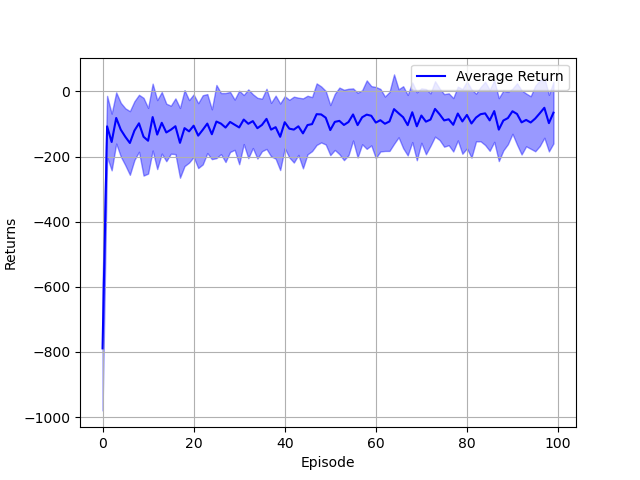
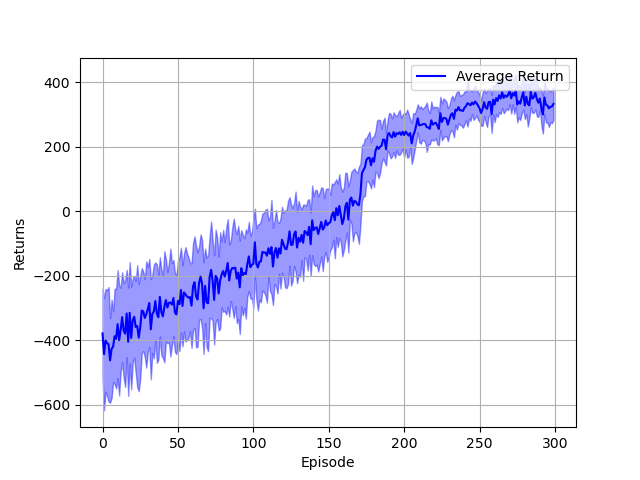
CPO works! and made plotter a bit better

diff --git a/jaisalab/metrics/plotting.py b/jaisalab/metrics/plotting.py
@@ -1,18 +1,32 @@
+#misc
 import os 
+import glob
 import numpy as np 
 import matplotlib.pyplot as plt 
 import pandas as pd
 import csv
 
+#jaisalab
 from jaisalab.utils import get_time_stamp_as_string
 
 class Plotter():
-    def __init__(self, fdir, data_dir=None, dtype='np', savefig=True, **kwargs):
+    def __init__(self, plot_latest=True, fdir=None, data_dir=None, dtype='np', savefig=True, **kwargs):
         if data_dir is None:
             data_dir = 'data/local/experiment'
 
         self.data_dir = data_dir
-        self.fdir = fdir
+
+        if plot_latest: 
+            list_of_data_dirs = [x[0] for x in os.walk(data_dir)]
+            latest_data_dir = max(list_of_data_dirs, key=os.path.getctime)
+            self.fdir = latest_data_dir
+            self.dir_name = latest_data_dir.split('/')[-1]
+        else: 
+            if fdir is not None: 
+                self.fdir = fdir
+            else: 
+                raise TypeError("'NoneType' object is not an accesible data directory.")
+
         self.savefig = savefig
         self.fig_kwargs = kwargs
 
@@ -21,10 +35,12 @@ class Plotter():
         elif dtype == 'pd':
             self.data = self.collect_data_as_pd()
         
-        self.savedir = 'plots'
+        self.flags = {1:'returns', 2:'kl', 
+                      3:'constraint_vals', 4:'entropy',
+                      5:'losses'}
 
     def _collect_data(self):
-        file = open(self.data_dir + f'/{self.fdir}/progress.csv')
+        file = open(f'{self.fdir}/progress.csv')
         csvreader = csv.reader(file) #csv reader
         #get metric names
         metrics = [] 
@@ -55,10 +71,20 @@ class Plotter():
         df = pd.DataFrame.from_dict(data_dict)
         return df
 
+    def _savefig(self,flag):
+        if self.savefig:
+            try:
+                if 'plots' not in os.listdir():
+                    os.mkdir('plots/')
+                plt.savefig(f'plots/{self.dir_name}_{self.flags[flag]}')
+            except FileExistsError:
+                pass
+
     def plot_kl(self):
         pass
     def plot_losses(self):
         pass
+
     def plot_returns(self):
         avg_returns = self.data['Evaluation/AverageReturn']
         episodes = np.arange(0, len(avg_returns))
@@ -71,17 +97,13 @@ class Plotter():
         plt.xlabel('Episode')
         plt.ylabel('Returns')
         plt.legend(loc='best')
-        if self.savefig:
-            try: 
-                plt.savefig(f'plots/{self.fdir}_returns')
-            except FileNotFoundError:
-                os.mkdir('plots/')
-                plt.savefig(f'plots/{self.fdir}_returns')
+        self._savefig(flag=1)
 
     def plot_entropy(self):
         pass
-    def plot_constraints(self):
-        constraint_val = self.data['GaussianMLPPolicy/ConstraintValAfter']
+
+    def plot_constraint_vals(self):
+        constraint_val = self.data['CPO/ConstraintValAfter']
         episodes = np.arange(0, len(constraint_val))
 
         fig = plt.figure()
@@ -90,10 +112,6 @@ class Plotter():
         plt.xlabel('Episode')
         plt.ylabel('Constraint Value')
         plt.legend(loc='best')
-        if self.savefig:
-            try: 
-                plt.savefig(f'plots/{self.fdir}_constraints')
-            except FileNotFoundError:
-                os.mkdir('plots/')
-                plt.savefig(f'plots/{self.fdir}_constraints')
+        self._savefig(flag=3)
+    
     

diff --git a/jaisalab/algos/cpo.py b/jaisalab/algos/cpo.py
@@ -236,6 +236,11 @@ class CPO(VPG):
         costs = np_to_torch(pad_batch_array(costs_flat, valids, self.env_spec.max_episode_length))
         cost_advs_flat = self._compute_advantage(costs, valids, baselines)
 
+        #constraints
+        R = eps.env_infos["replenishment_quantity"]
+        Im1 = eps.env_infos["inventory_constraint"]
+        c =  eps.env_infos["capacity_constraint"]
+
         costs_flat = np_to_torch(costs_flat) #convert to PyTorch tensor
 
         if self._maximum_entropy:
@@ -256,8 +261,6 @@ class CPO(VPG):
                 obs_flat, returns_flat)
             kl_before = self._compute_kl_constraint(obs)
             constraint_val_before = self._compute_constraint_value(costs_flat, masks)
-            print("CONSTRAINT VAL BEFORE")
-            print(constraint_val_before)
 
         self._train(obs_flat, actions_flat, rewards_flat, returns_flat,
                     advs_flat, costs_flat, cost_advs_flat, masks)
@@ -270,8 +273,6 @@ class CPO(VPG):
             kl_after = self._compute_kl_constraint(obs)
             policy_entropy = self._compute_policy_entropy(obs)
             constraint_val_after = self._compute_constraint_value(costs_flat, masks)
-            print("CONSTRAINT VAL AFTER")
-            print(constraint_val_after)
 
         with tabular.prefix(self.policy.name):
             tabular.record('/LossBefore', policy_loss_before.item())
@@ -281,8 +282,13 @@ class CPO(VPG):
             tabular.record('/KLBefore', kl_before.item())
             tabular.record('/KL', kl_after.item())
             tabular.record('/Entropy', policy_entropy.mean().item())
+
+        with tabular.prefix("CPO"):
             tabular.record('/ConstraintValBefore', constraint_val_before.item())
             tabular.record('/ConstraintValAfter', constraint_val_after.item())
+            #tabular.record('/ReplenishmentQuantity', R)
+            #tabular.record('/InventoryConstraint', Im1)
+            #tabular.record('/CapacityConstraint', c)
 
         with tabular.prefix(self._value_function.name):
             tabular.record('/LossBefore', vf_loss_before.item())

diff --git a/jaisalab/experiments/cpo_backlog.py b/jaisalab/experiments/cpo_backlog.py
@@ -6,6 +6,7 @@ import os
 
 #misc
 import torch
+from dowel import logger, StdOutput
 
 #jaisalab
 from jaisalab.utils.env import env_setup
@@ -17,9 +18,7 @@ from jaisalab.safety_constraints import InventoryConstraints
 import garage
 from garage.torch.policies import GaussianMLPPolicy
 from garage.torch.value_functions import GaussianMLPValueFunction
-from garage import Trainer
-from dowel import logger, StdOutput
-from garage import wrap_experiment
+from garage import Trainer, wrap_experiment
 from garage.experiment.deterministic import set_seed
 from garage.sampler import LocalSampler, WorkerFactory
 from garage.torch.policies import GaussianMLPPolicy
@@ -54,12 +53,12 @@ def cpo_inv_mng_backlog(ctxt=None, seed=1):
     trainer = Trainer(ctxt)
 
     policy = GaussianMLPPolicy(env.spec,
-                               hidden_sizes=[32, 32],
+                               hidden_sizes=[64, 64],
                                hidden_nonlinearity=torch.tanh,
                                output_nonlinearity=None)
 
     value_function = GaussianMLPValueFunction(env_spec=env.spec,
-                                              hidden_sizes=(32, 32),
+                                              hidden_sizes=(64, 64),
                                               hidden_nonlinearity=torch.tanh,
                                               output_nonlinearity=None)
 
@@ -81,4 +80,4 @@ def cpo_inv_mng_backlog(ctxt=None, seed=1):
                 center_adv=False)
 
     trainer.setup(algo, env)
-    trainer.train(n_epochs=100, batch_size=1024)
+    trainer.train(n_epochs=300, batch_size=1024)

diff --git a/jaisalab/optimizers/conjugate_constraint_optimizer.py b/jaisalab/optimizers/conjugate_constraint_optimizer.py
@@ -225,12 +225,13 @@ class ConjugateConstraintOptimizer(Optimizer):
             for step, prev_param, param in zip(descent_step, prev_params,
                                                params):
                 step = ratio * step
-                new_param = prev_param.data - step
+                new_param = prev_param.data + step
                 param.data = new_param.data
 
             loss = f_loss()
             cost_loss = f_cost()
             constraint_val = f_constraint()
+
             if (loss < loss_before and cost_loss < cost_loss_before
                 and constraint_val <= self._max_constraint_value):
                 break

diff --git a/main.py b/main.py
@@ -9,11 +9,11 @@ def test_cpo_backlog():
     cpo_inv_mng_backlog(seed=1)
 
 def plot_experiment():
-    fdir = 'cpo_inv_mng_backlog'
-    plotter = Plotter(fdir = fdir)
+    plotter = Plotter()
     plotter.plot_returns()
-    plotter.plot_constraints()
+    plotter.plot_constraint_vals()
 
 if __name__ == '__main__':
+    #test_trpo_backlog()
     #test_cpo_backlog()
     plot_experiment()
